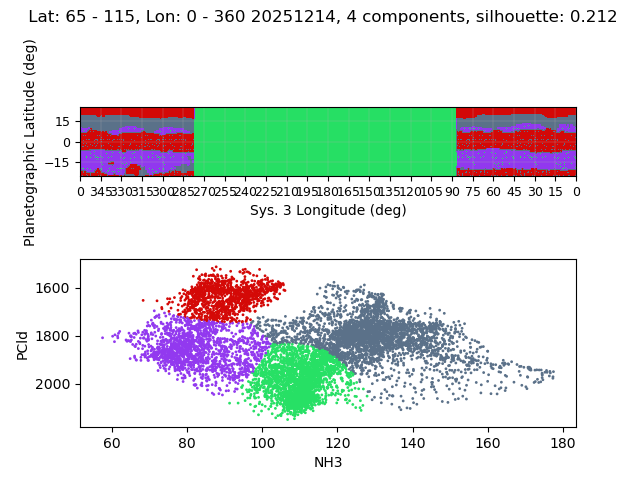
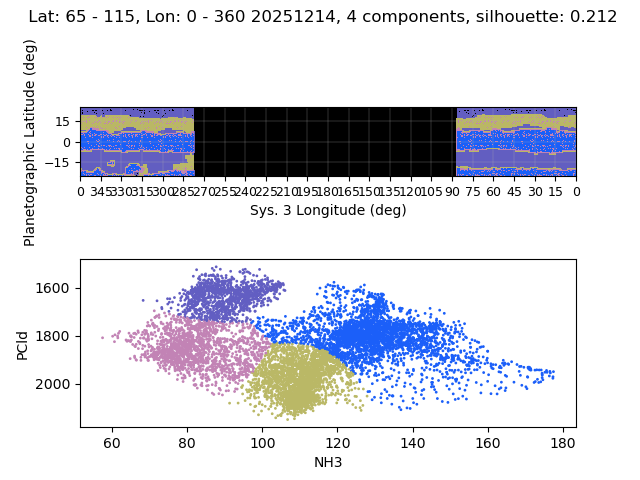
fix: set nan values to black in cluster map

Changed region(s): [[0.1562, 0.5625, 0.875, 0.875], [0.125, 0.2188, 0.9062, 0.375]]

diff --git a/scripts/plots/mapping.py b/scripts/plots/mapping.py
@@ -28,13 +28,13 @@ def plot_patch(patch, LatLims, LonLims, axis, cmap, n_comp):
     Purpose:
         to plot a patch with appropriate longitude/latitude scales
     '''
-    vn = -1
-    vx = n_comp - 1
+    vn = 0
+    vx = n_comp 
     n = vx - vn
+    cmap.set_under('black')
     np.nan_to_num(patch, copy=False, nan=-1.0, posinf=0.0, neginf=0.0)
     tx=np.linspace(vn,vx,n,endpoint=True)
-    for p in patch:
-        print(p)
+    
 
     show=axis.imshow(patch,  origin='upper', cmap = cmap, vmin=vn,vmax=vx,  
                extent=[360-LonLims[0],360-LonLims[1],90-LatLims[1],
